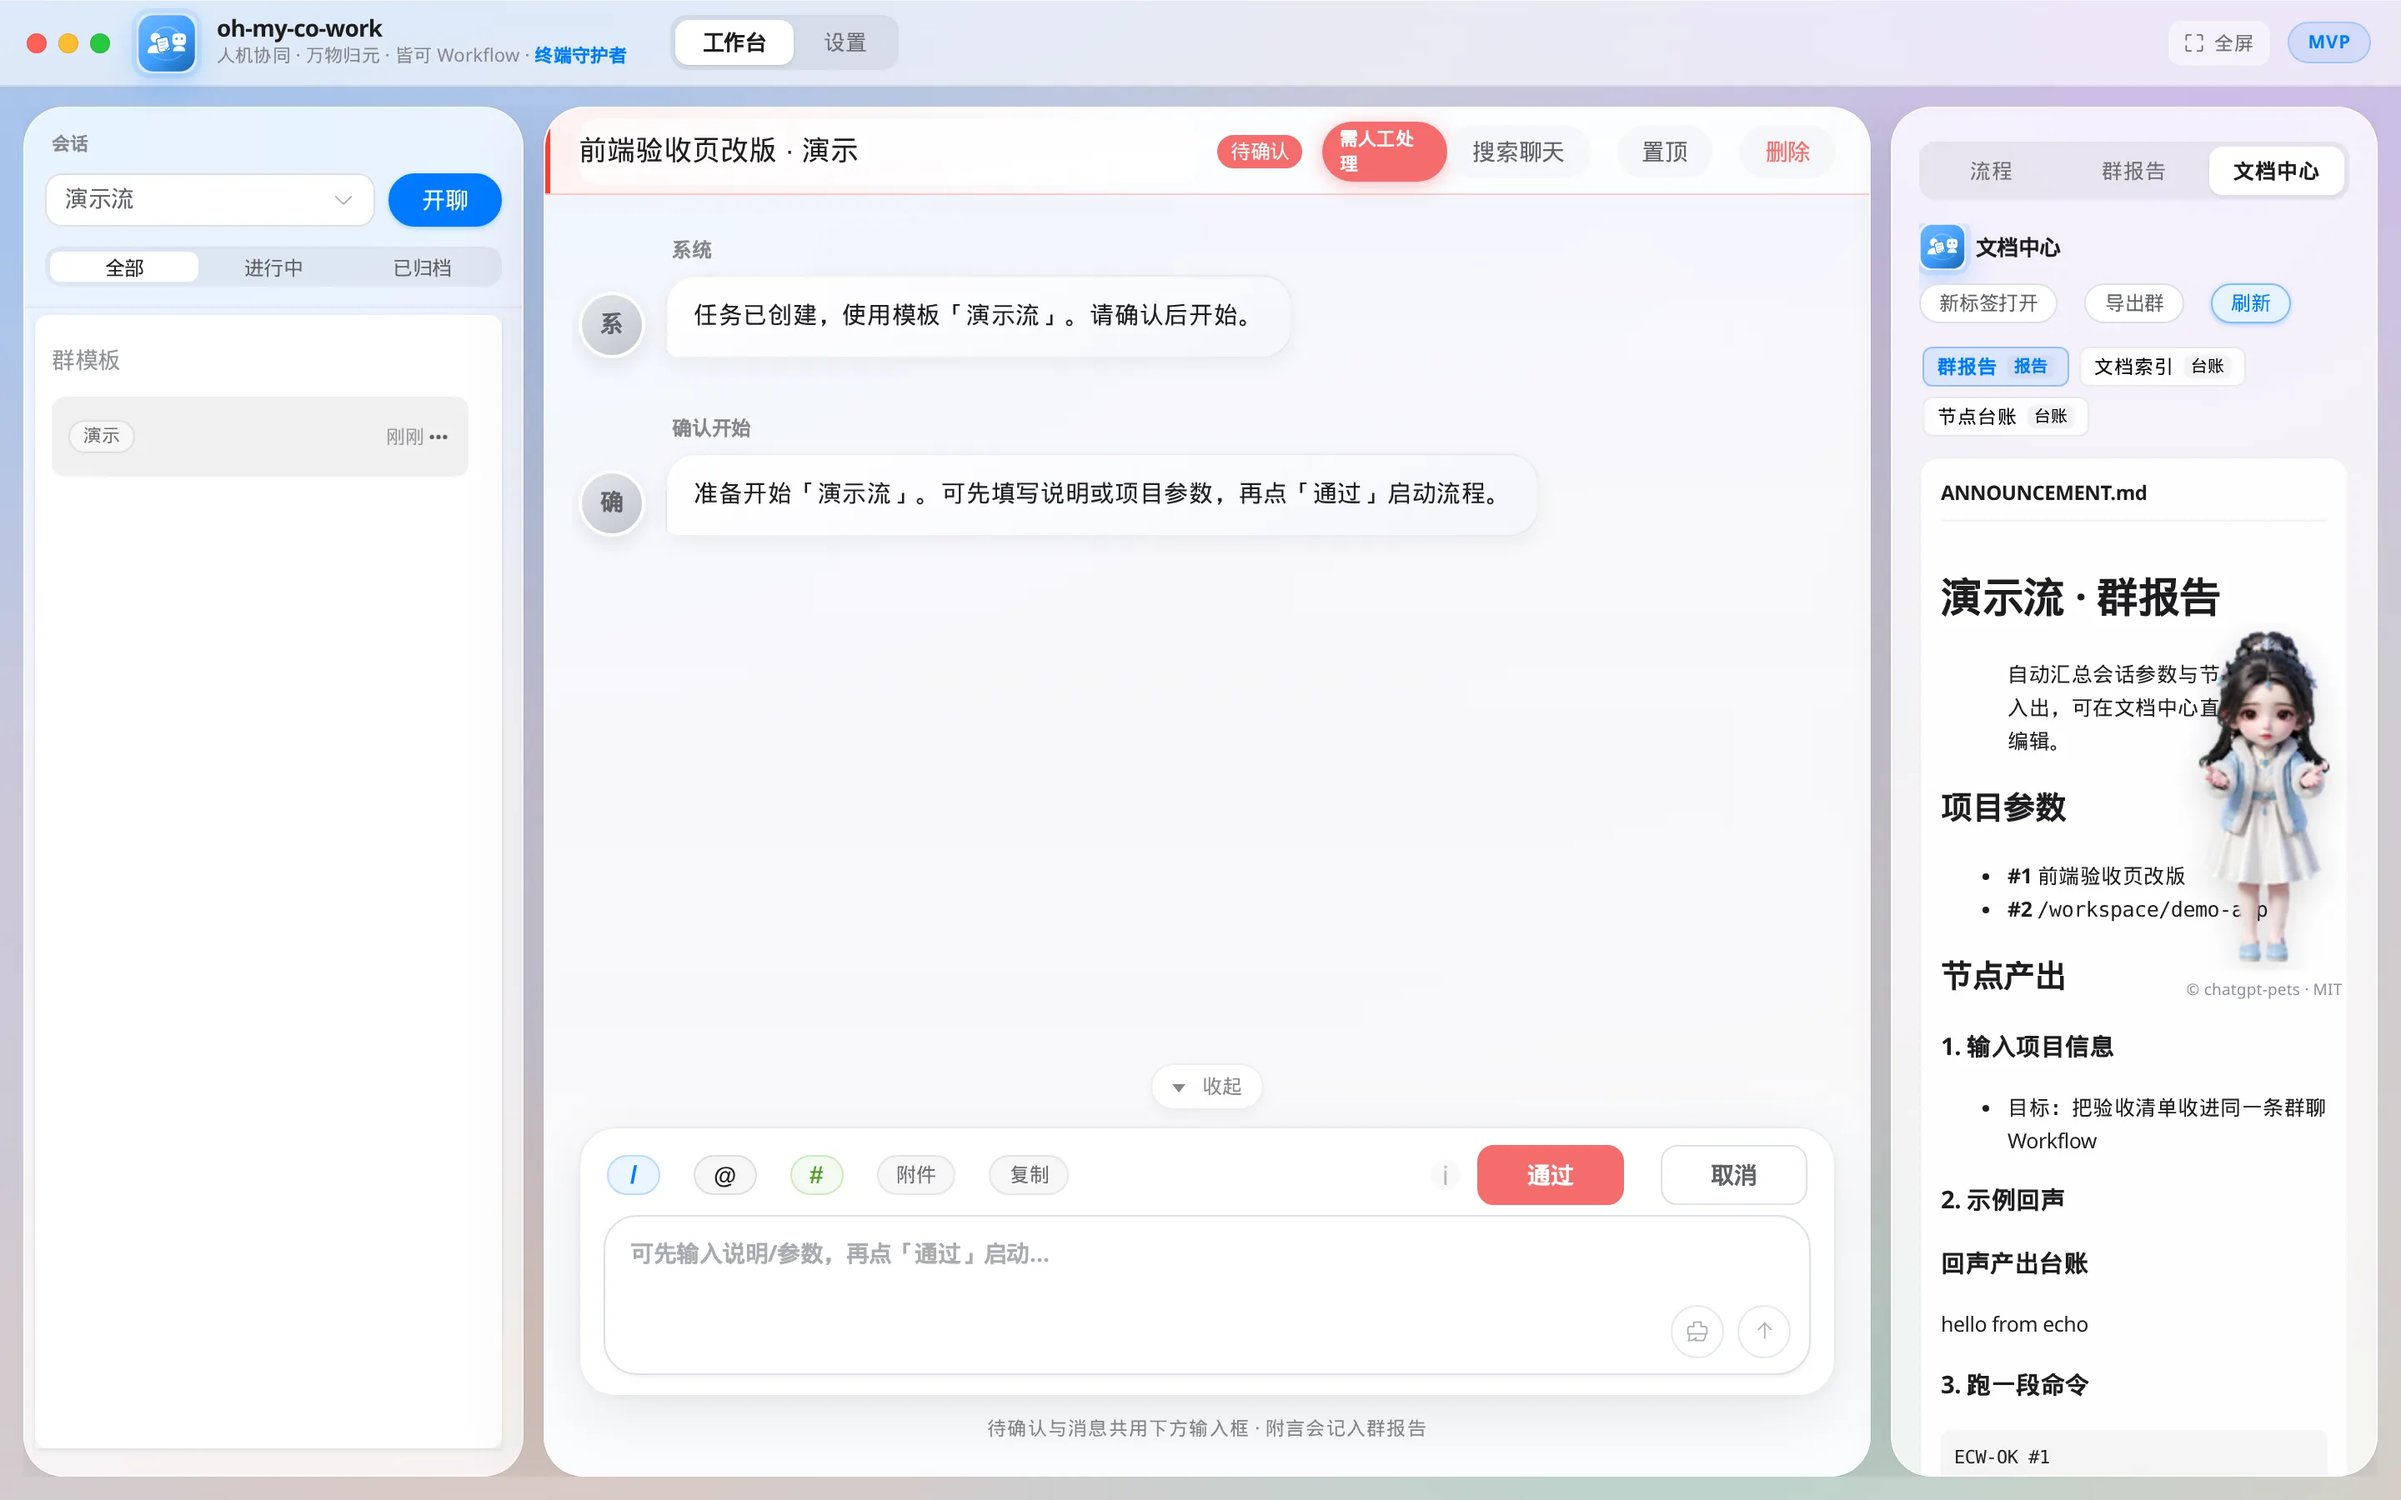
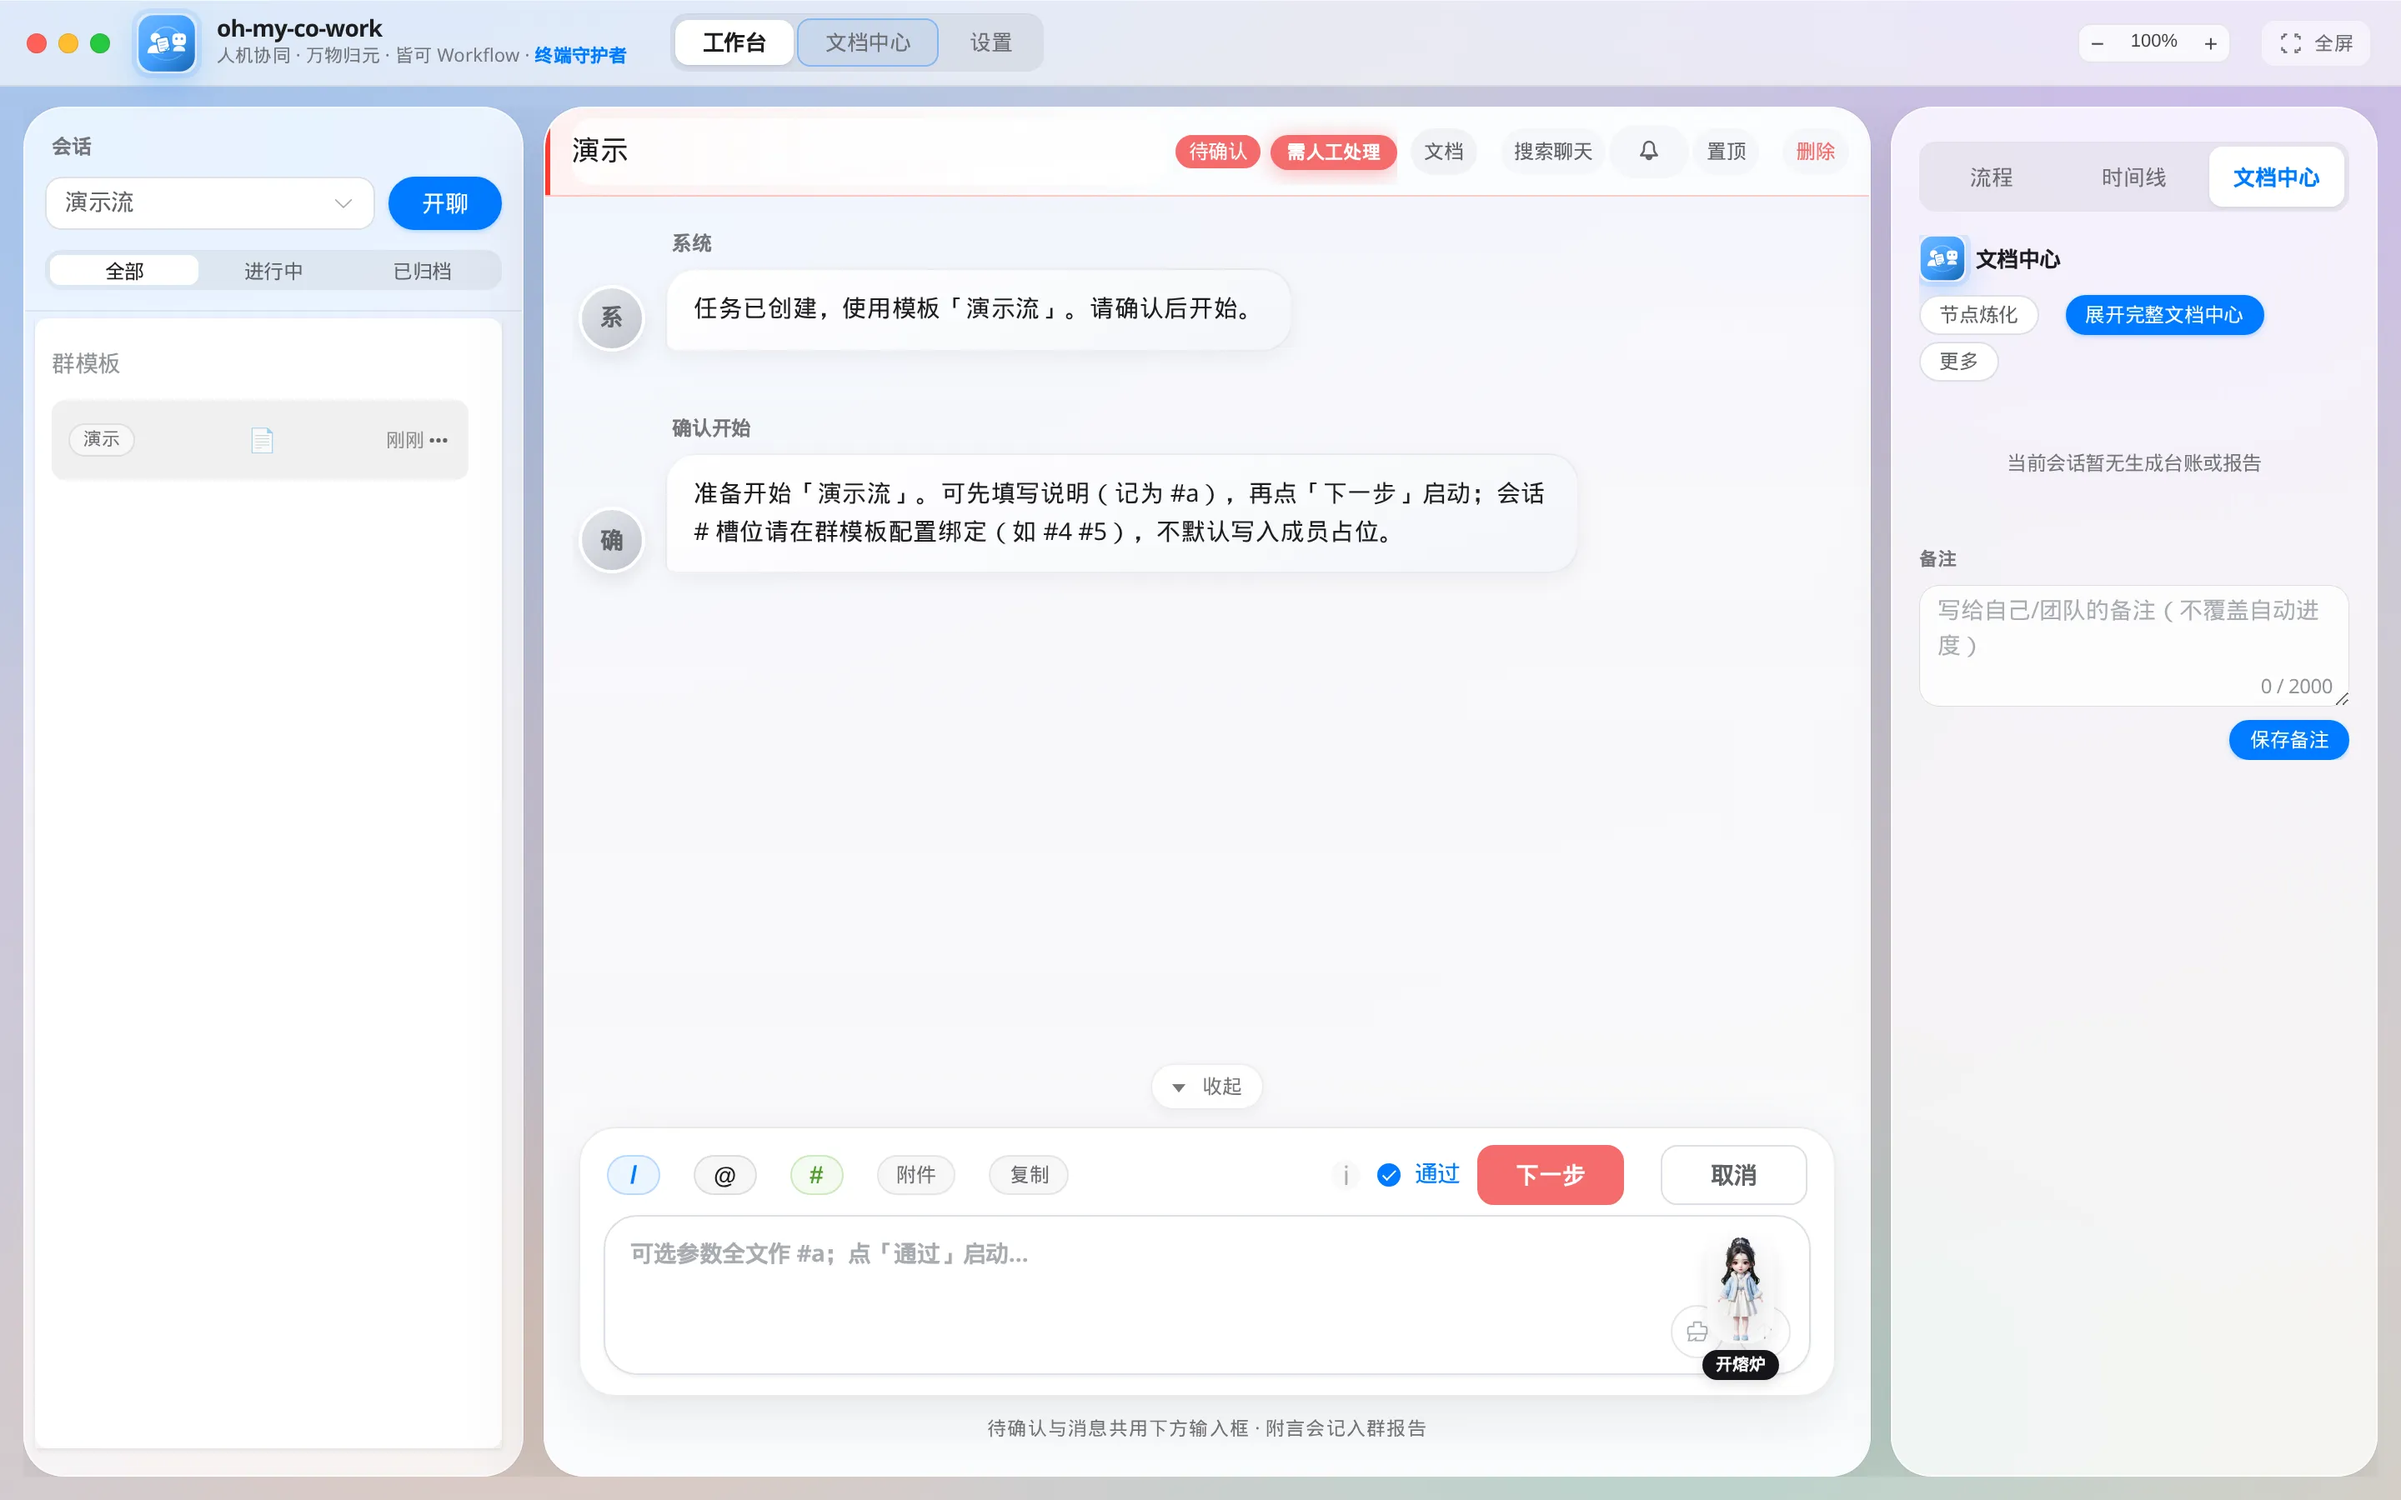
fix(seed): resolve refine probe path from server workspace
Align demo seed with DATA_ROOT and fixtures beside server/test.
Refresh docs hub screenshots, README 5.9.0 UX notes, and capture script.
Add plan-5.9.1-release-selftest.md for release self-check record.

diff --git a/server/src/seed.js b/server/src/seed.js
@@ -1,11 +1,13 @@
 import fs from 'node:fs'
 import path from 'node:path'
-import { initDb } from './db.js'
+import { fileURLToPath } from 'node:url'
+import { DATA_ROOT, initDb } from './db.js'
 import { createMember, createGroup, listMembers, listGroups } from './services.js'
 import { MEMBER_KIND } from '@acw/shared'
 
-const REFINE_PROBE_SRC = path.join(process.cwd(), 'server/test/fixtures/refine-verify-probe.mjs')
-const probeDir = path.join(process.cwd(), 'data', 'demo-fixtures')
+const __dirname = path.dirname(fileURLToPath(import.meta.url))
+const REFINE_PROBE_SRC = path.join(__dirname, '../test/fixtures/refine-verify-probe.mjs')
+const probeDir = path.join(DATA_ROOT, 'demo-fixtures')
 fs.mkdirSync(probeDir, { recursive: true })
 const REFINE_PROBE = path.join(probeDir, 'refine-verify-probe.mjs')
 if (!fs.existsSync(REFINE_PROBE)) {

diff --git a/README.md b/README.md
@@ -138,7 +138,7 @@
 群报告、会话索引和节点台账都在 `data/journals/` 里。文档中心把它们聚成一个可搜、可编、可导出的页面，不用翻文件夹。
 
 <img src="./docs/assets/screenshots/docs-hub.webp" alt="协同文档中心：左群模板、中会话与文件、右 Markdown 正文（群报告可编辑）" width="100%" />
-<p align="center"><sub>独立页面 <code>/docs</code>：按群模板或时间浏览 · 全文搜索 · 公告可编辑 · 按群 / 全部导出 zip</sub></p>
+<p align="center"><sub>独立页面 <code>/docs</code>：顶栏全文搜索（与中栏命中联动）· 按群模板或时间浏览 · 公告可编辑 · 按群 / 全部导出 zip</sub></p>
 
 <img src="./docs/assets/screenshots/docs-hub-rail.webp" alt="工作台第三栏文档中心：群报告、文档索引与节点台账预览" width="100%" />
 <p align="center"><sub>工作台右侧「文档中心」：群报告与台账同一栏，窄宽度横向排版、可折行</sub></p>
@@ -163,7 +163,7 @@
 | 场外协助 | `@成员` 临时插队，完成后回到主流程；折叠态直接标出实际用了哪个成员 |
 | 快捷输入 | `/` 指令、`@` 协助、`#` 会话参数与节点输出 |
 | 群报告 | 自动汇总参数、节点输入输出和人工备注，落地 Markdown；工作台并入文档中心 |
-| 文档中心 | 阅读样式参考飞书文档（正文大、标签小）；独立顶栏解耦只留 Logo；工作台第三栏内嵌文档中心（群报告 + 台账）；独立页面升级三栏分类布局；公告可编辑、全文搜索与按群导出 zip |
+| 文档中心 | 阅读样式参考飞书文档（正文大、标签小）；独立顶栏 Logo + **顶栏全文搜索**；工作台第三栏内嵌文档中心（群报告 + 台账），顶栏 **Ctrl+Shift+D /「打开右侧文档中心」**；独立页面三栏分类布局；公告可编辑、全文搜索与按群导出 zip |
 | 炼化 | 成员勾选后**保存当下**改源（`ACW-REFINE`）并 **pipe 试跑验证**（`verifyLast` / 抽屉「试跑验证」）；`acw-ctl verify-member`；适配 plan 预览；还原中心 diff/还原；开聊闸门 **下一步**（回车带参） |
 | 更新与备份 | 启动检查更新默认开（设置可关，只读版本号、不自动安装）；设置页提供**一键导入与一键导出**（导入备份包恢复数据，恢复前自动留快照可回退；导出为全量协同文档 ZIP）；备份/还原生产热路径全异步（integrity/checkpoint 走 worker）；关于页状态无缝联动 |
 | 会话治理 | 置顶、改名、删除（顶栏删除会从列表拿掉并清终端行）、续跑；群聊完成即归档；设置里释放资源、备份、配额与脱敏 |
@@ -197,7 +197,7 @@ macOS    → 解压后运行 ./start.sh
 Linux    → 解压后运行 ./start.sh
 ```
 
-运行包已包含依赖，通常不需要再次执行 `npm install`。当前源码版本 **5.9.0**（炼化·适配·验证闭环、闸门「通过+下一步」、`paramBindSlots`、文档中心 **运行验证记录** → 时间线「验证」筛选）。
+运行包已包含依赖，通常不需要再次执行 `npm install`。当前源码版本 **5.9.0**（炼化·适配·验证闭环、闸门「通过+下一步」/`paramBindSlots`、文档中心顶栏全文搜索、工作台 **Ctrl+Shift+D** 打开右侧文档中心、成员审核闸门「通过」勾选、开聊首条输入自动命名、**运行验证记录** → 时间线「验证」筛选）。
 
 | 产物 | 路径（本地打包，不进 git） |
 |------|---------------------------|

diff --git a/docs/plan-5.9.1-release-selftest.md b/docs/plan-5.9.1-release-selftest.md
@@ -1,0 +1,31 @@
+# 5.9.1 发布前自测记录（2026-11-13）
+
+> 对应 `/goal`：拉 main → 自测近期优化 → 无阻断问题则打包并更新 README/截图。
+
+## 结论
+
+**可发布**：`npm run lint`、`npm test`（391）、`npm run test:web`、`npm run test:electron`、`npm run release:gate`（需先 `npm run pack` 填满 `packages/`）、`node scripts/selftest-refine-adapt.mjs` 均通过。
+
+## 发现与处理
+
+| 项 | 严重性 | 说明 | 处理 |
+| --- | --- | --- | --- |
+| `npm run seed` 在 workspace 下路径错误 | P1 | `process.cwd()` 为 `server/` 时去找 `server/server/test/fixtures/...` | 已改 `seed.js`：用 `import.meta.url` + `DATA_ROOT` |
+| `capture-docs-screenshots.mjs` 过时选择器 | P2 | 无会话时找不到 `.conv-row`；「文档中心」按钮重名 | 脚本：一键开聊演示流 + 「打开右侧文档中心」 |
+| 云环境未 `npm install` | 环境 | 初跑 73 fail 均为 `@acw/shared` 缺失 | 文档已写明先 install；非产品缺陷 |
+| `release-gate` 缺 darwin zip | 环境 | 本机未打全平台包 | 打 `npm run pack` 后 gate 通过 |
+| 桌面包体积 | 预期 | win/linux desktop ~160MB，只放 `release/` | 符合 PKG 护栏 |
+
+## 打包产物（本机）
+
+| 产物 | 路径 |
+| --- | --- |
+| Linux 轻量 | `packages/oh-my-co-work-v5-linux-x64.zip` |
+| Linux 桌面 | `release/oh-my-co-work-v5-linux-x64-desktop.zip` |
+| Win 桌面（交叉） | `release/oh-my-co-work-v5-win32-x64-desktop.zip` |
+
+## 截图
+
+`node scripts/capture-docs-screenshots.mjs`（需 `dev:server` + `dev:web`，Playwright chromium；webp 可用 `npx sharp-cli`）。
+
+更新：`docs-hub.webp`（顶栏搜索）、`docs-hub-rail.webp`（顶栏打开右侧文档中心）。

diff --git a/CODE_CHANGE.md b/CODE_CHANGE.md
@@ -3,6 +3,7 @@
 > 文件级变更台账。每个文件的增、删、改、移动都追加一条记录。
 > 随仓库提交（不在 gitignore 中）。按日期降序，最新在最上面。
 
+2026-11-13 | M | server/src/seed.js, scripts/capture-docs-screenshots.mjs, README.md, docs/assets/screenshots/{docs-hub,docs-hub-rail}.webp, docs/plan-5.9.1-release-selftest.md | 发布自测：修复 seed fixture 路径；截图脚本对齐开聊/顶栏文档入口；README 与文档中心截图更新
 2026-11-12 | M | web/src/views/docs/{DocsHubGroupsColumn.vue,DocsHub.vue,DocsHubSessionsColumn.vue}, web/src/App.vue | 文档中心左栏移除「节点炼化与还原」入口（等高列表）；搜索框移至文档中心顶栏
 2026-11-12 | M | web/src/views/Workbench.vue, web/src/views/workbench/composables/workbenchChromeCopy.js, web/src/i18n/{zh-CN,en-US}.js | 会话顶栏「文档」快捷键切右栏文档中心；顶栏单行紧凑
 2026-11-12 | M | web/src/views/workbench/{components/ComposerPanel.vue,composables/sessionSenderSubmitUi,sessionGateActions}.js, server/src/engine/advance.js, web/test/sessionSenderSubmitUi.test.mjs | 成员闸门 mode=gate 显示「通过」勾选；人工步补取消
